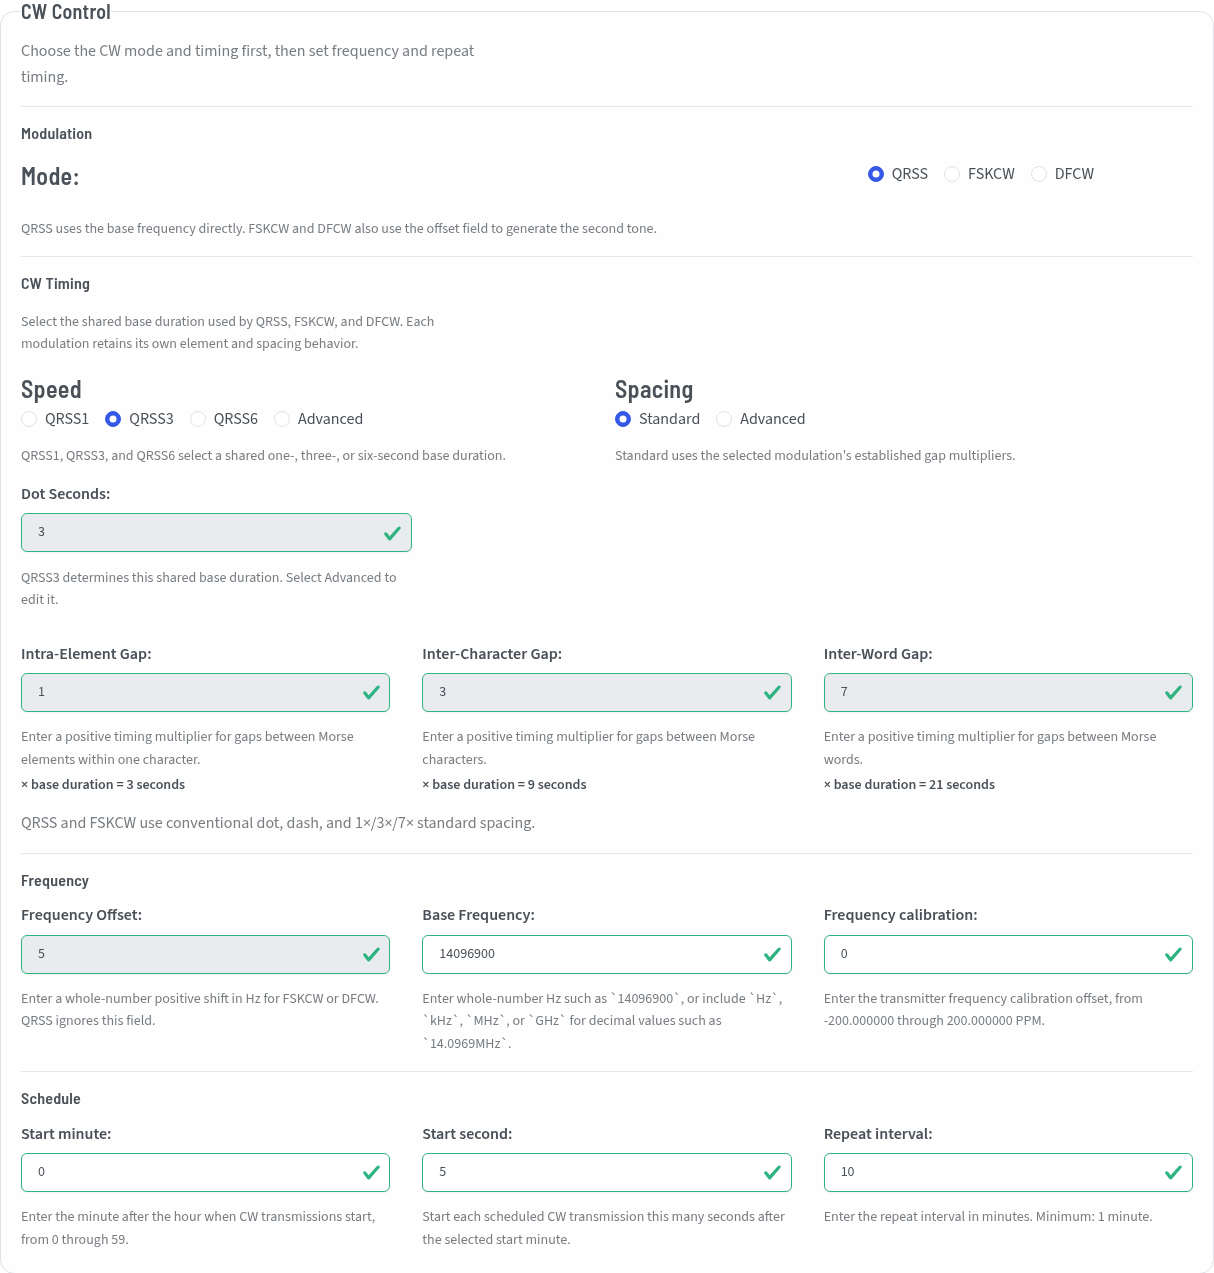
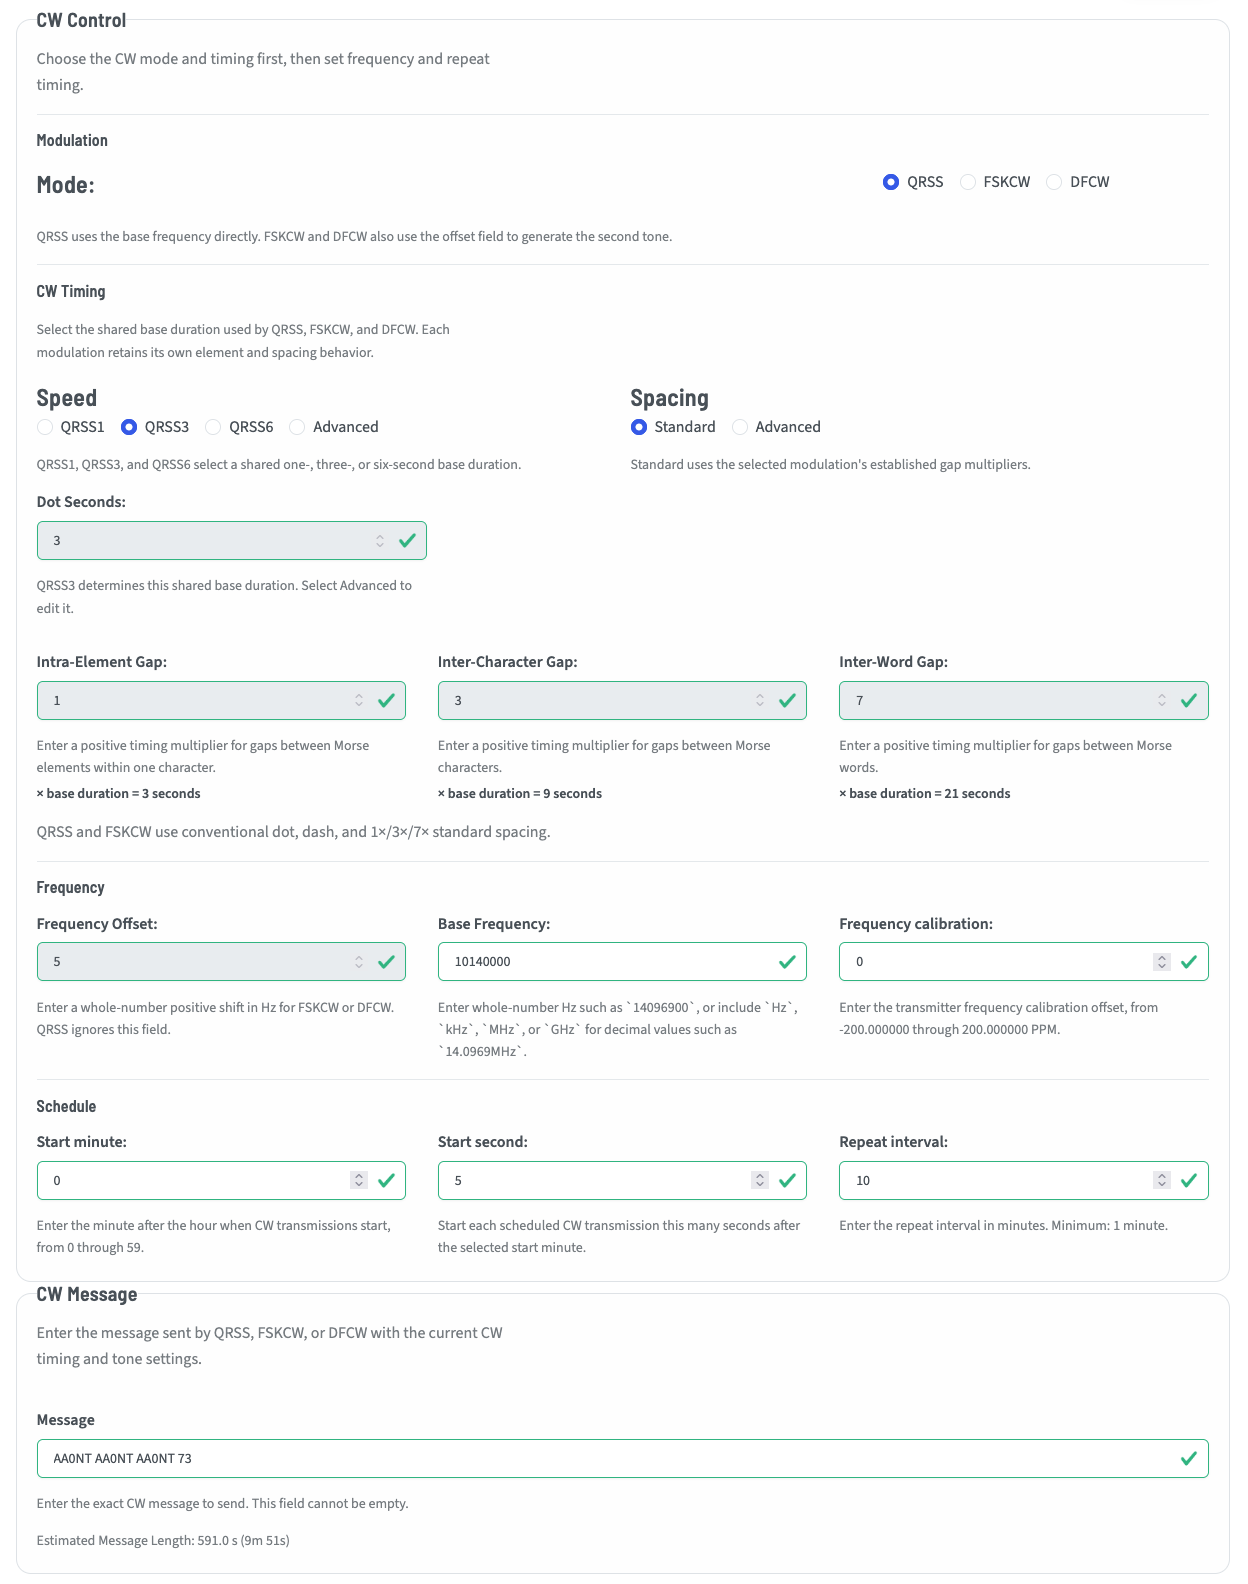
Document 3.2.0 CW schedule controls

diff --git a/docs/User_Interface/Setup/Signal_Setup/index.md b/docs/User_Interface/Setup/Signal_Setup/index.md
@@ -218,7 +218,7 @@ This is the CW form of the PPM/NTP settings in WSPR.  Here you may calibrate you
 
 #### Start minute / Start second / Repeat interval
 
-QRSS operators generally start at minute 0 and repeat every 10 minutes. **Start minute** selects the minute after the hour, **Start second** selects the offset within that minute, and **Repeat interval** sets the cadence in minutes. The repeat interval must also be long enough for the complete CW message. A transmission may take exactly the full repeat interval, but it may not run longer than that interval.
+QRSS operators generally start at minute 0 and repeat every 10 minutes. **Start minute** selects the minute after the hour. **Start second** accepts a whole number from `0` through `59` and offsets each scheduled QRSS, FSKCW, or DFCW transmission from that minute. Its default value is `5`, and an explicit value of `0` is valid. **Repeat interval** sets the cadence in minutes; the start-second offset does not change that interval or the calculated message duration. The repeat interval must also be long enough for the complete CW message. A transmission may take exactly the full repeat interval, but it may not run longer than that interval.
 
 ### CW Message
 
@@ -236,6 +236,7 @@ Changing the repeat interval reevaluates whether the estimated duration fits wit
 Only the active spacing controls affect the estimate. QRSS and FSKCW use their shared spacing values, while DFCW uses the DFCW spacing values.
 
 (cw-message-too-long)=
+
 ##### When a CW message is too long
 
 If the estimated message length exceeds the repeat interval, Setup keeps the draft in the Message field but does not save it. The Message field is marked invalid, and the Setup header displays a persistent **Save failed** status. The detail reports the calculated message duration and configured repeat interval, then identifies the available corrections.
